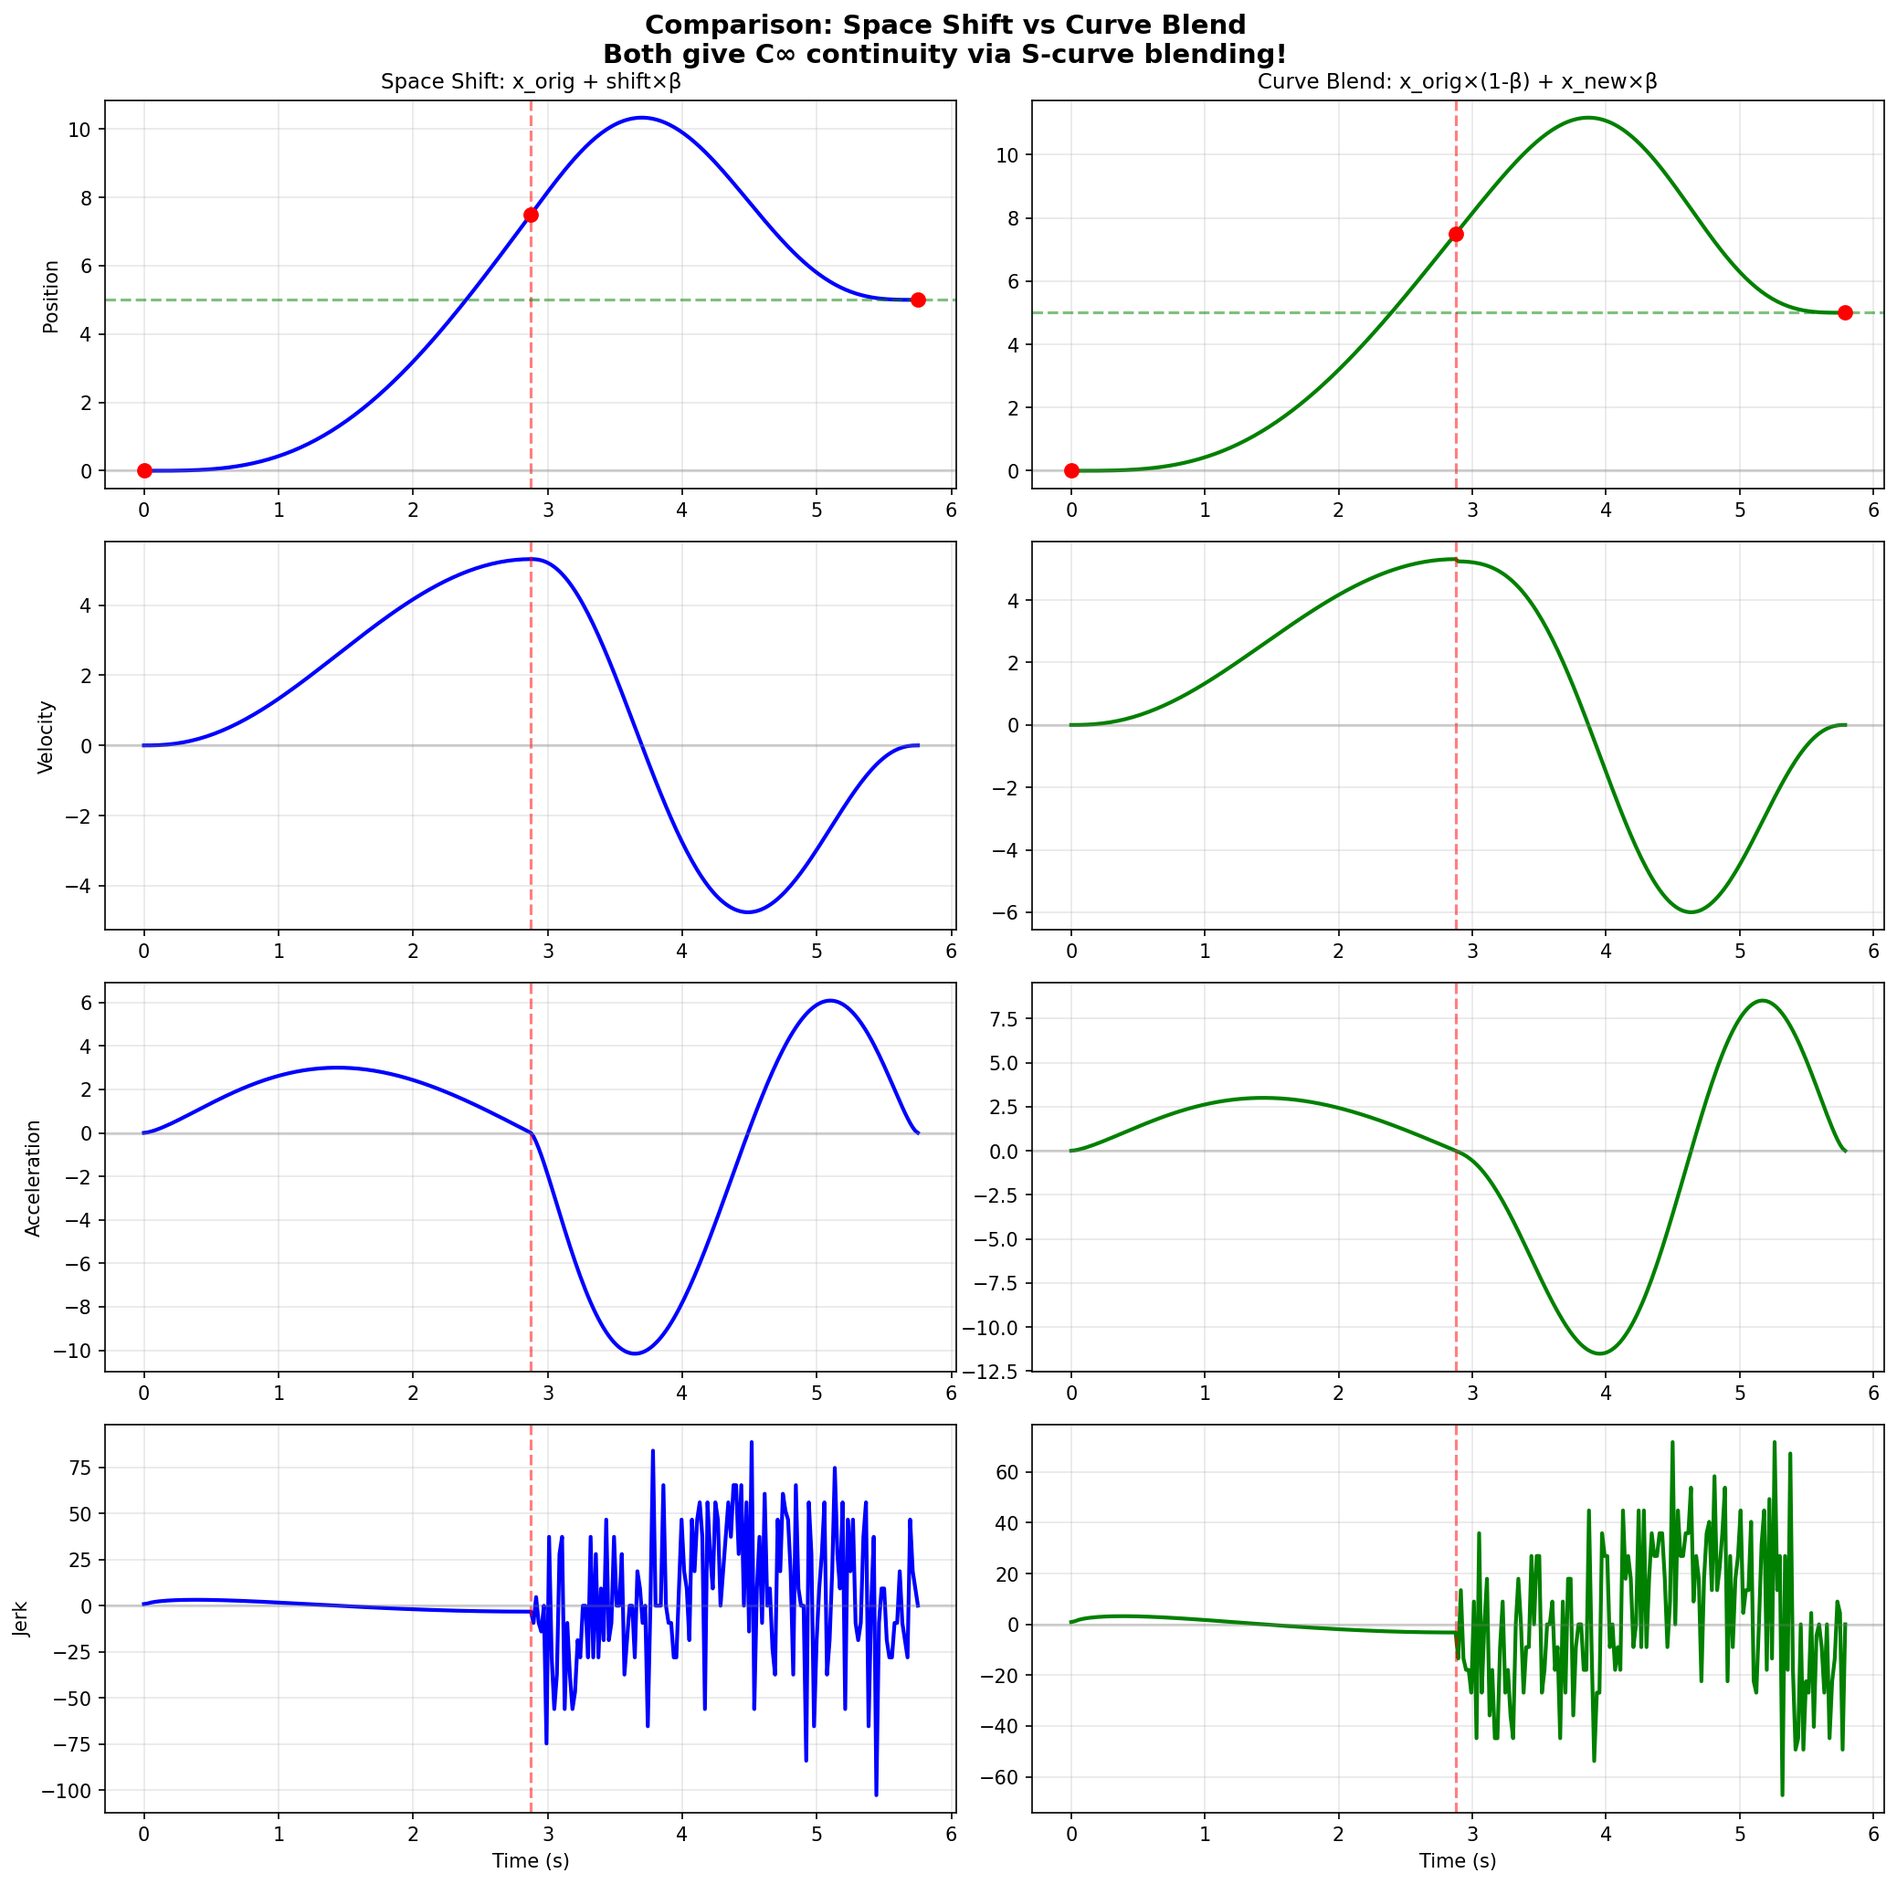
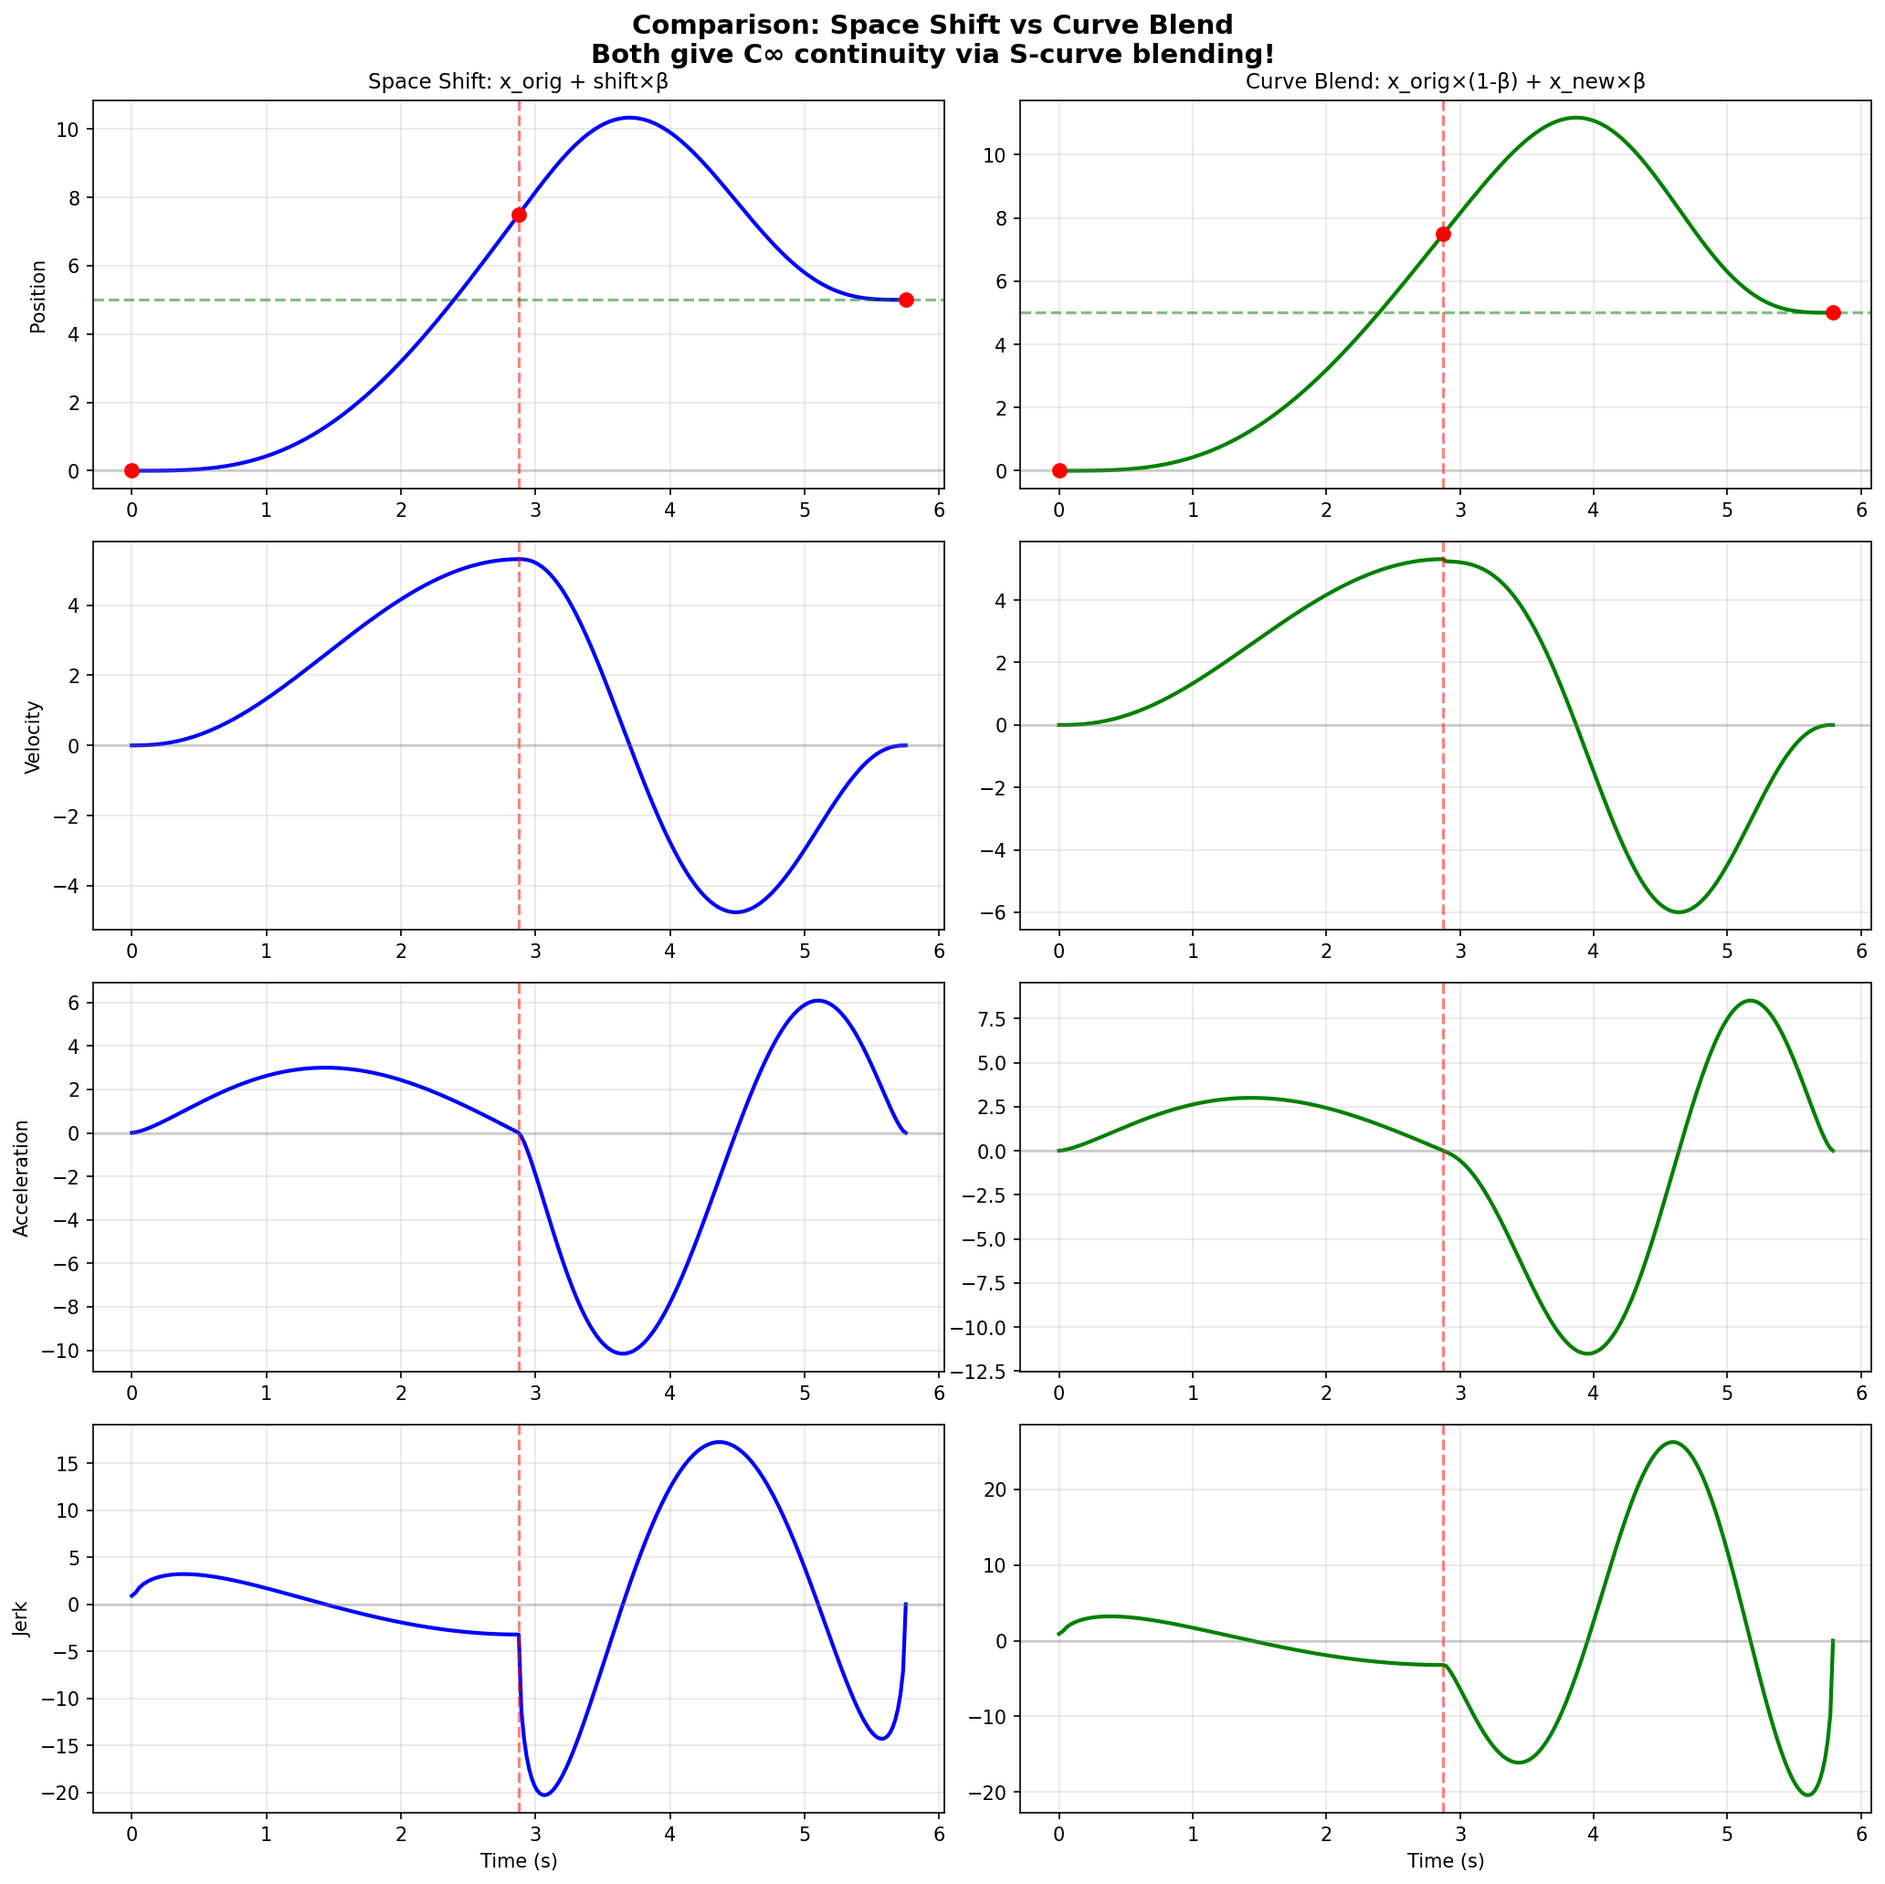
Simplify to Curve Blend only with improved higher derivative handling
- Update plot title to show correct Curve Blend formula:
  x(t) = x_inertial(t)×(1-β) + x_new(t)×β
- Scale boundary_margin with derivative order (0.05 + 0.01*order)
  to reduce numerical issues in higher derivatives near τ=±1
- Update BetaBlendMotion docstring to focus on Curve Blend approach
- Analytical derivatives via Leibniz rule give perfect continuity

diff --git a/src/scurvebeta/generalized.py b/src/scurvebeta/generalized.py
@@ -1007,6 +1007,9 @@ def normalized_f_derivatives(tau, max_order=8):
 
     Higher derivatives are computed analytically.
 
+    IMPORTANT: All derivatives are EXACTLY 0 at τ=±1 (the endpoints).
+    Near the boundaries, we use a smooth transition to avoid numerical issues.
+
     Returns: list [f, f', f'', f''', ...] of length max_order+1
     """
     tau = np.asarray(tau, dtype=float)
@@ -1021,15 +1024,26 @@ def normalized_f_derivatives(tau, max_order=8):
     # f(τ) - position (from normalized_f)
     results[0] = normalized_f(tau)
 
-    # Mask for valid τ range
-    mask = np.abs(tau) < 1
+    # Mask for interior region (away from boundaries)
+    # Higher derivatives need larger margin from boundary to avoid numerical issues
+    # As τ→±1, terms like (1-τ²)^(-k) blow up even though the full expression → 0
+    # For order n derivative, we need ~(1-τ²)^((2.5-n)/2), which blows up when n > 2.5
+    # Higher orders need progressively more margin
+    boundary_margin = 0.05 + 0.01 * max_order  # Scale margin with derivative order
+    mask = np.abs(tau) < (1 - boundary_margin)
     t = tau[mask]
+
+    if len(t) == 0:
+        # All values are at or near boundaries - all derivatives are 0
+        if scalar:
+            return [float(r[0]) for r in results]
+        return results
 
     # Precompute powers of (1-τ²)
     one_minus_t2 = 1 - t**2
-    sqrt_term = np.sqrt(np.maximum(one_minus_t2, 0))  # (1-τ²)^0.5
+    sqrt_term = np.sqrt(np.maximum(one_minus_t2, 1e-15))  # (1-τ²)^0.5
 
-    # Avoid division by zero
+    # Safe version for divisions
     safe_one_minus = np.maximum(one_minus_t2, 1e-15)
 
     if np.any(mask):
@@ -1141,24 +1155,31 @@ def _beta_s_derivatives(s, max_order=8):
 
 class BetaBlendMotion:
     """
-    Motion using S-curve blending between original and new curves.
+    Smooth transition from current motion state to a new S-curve target.
 
-    TWO APPROACHES ARE SUPPORTED:
+    The elegant formula:
 
-    1. SPACE SHIFT (mode='shift'):
-       x(t) = x_orig(t) + [x_target - x_orig_end] * β(s)
+    x(t) = x_inertial(t) * (1-β(s)) + x_new(t) * β(s)
 
-       The original curve continues, and a "space shift" is added that grows via S-curve.
+    where:
+    - x_inertial(t) = Taylor series matching all initial derivatives (x₀, v₀, a₀, j₀, ...)
+    - x_new(t) = fresh S-curve from x₀ to x_target
+    - β(s) = S-curve blend parameter, s = t/T
+    - β has ALL derivatives = 0 at s=0 and s=1
 
-    2. CURVE BLEND (mode='blend'):
-       x(t) = x_orig(t) * (1-β(s)) + x_new(t) * β(s)
+    WHY THIS IS C∞ SMOOTH:
 
-       Blends between original curve and a new curve to the target.
+    At t=0: β=0, β'=0, β''=0, ...
+    → x(0) = x_inertial(0) = x₀  ✓
+    → v(0) = x_inertial'(0) = v₀  ✓
+    → a(0) = x_inertial''(0) = a₀  ✓
+    → All derivatives match exactly!
 
-    BOTH give C∞ continuity because β and ALL its derivatives are 0 at s=0 and s=1!
-
-    At t=0: β=0, β'=0, β''=0, ... → perfect match with original motion
-    At t=T: β=1, β'=0, β''=0, ... → perfect arrival at target with all derivatives = 0
+    At t=T: β=1, β'=0, β''=0, ...
+    → x(T) = x_new(T) = x_target  ✓
+    → v(T) = x_new'(T) = 0  (S-curve ends at rest)  ✓
+    → a(T) = x_new''(T) = 0  ✓
+    → All derivatives = 0 at the end!
     """
 
     def __init__(self, x0, v0, a0, x_target, T, j0=0, snap0=0, crackle0=0, pop0=0,
@@ -1319,12 +1340,123 @@ class BetaBlendMotion:
 
         return result
 
+    def _get_orig_curve_derivatives(self, t, max_order=8):
+        """
+        Compute x_orig(t) and its derivatives ANALYTICALLY.
+
+        For mode='shift': Continue the original S-curve (rescaled to fit T)
+        For mode='blend': Use INERTIAL trajectory to ensure perfect continuity
+
+        The inertial trajectory x(t) = x0 + v0*t + a0*t²/2 + ... matches ALL
+        initial derivatives exactly, which is crucial for C∞ continuity when
+        β and all its derivatives are 0 at t=0.
+        """
+        t = np.asarray(t, dtype=float)
+        T = self.T
+
+        if self.mode == 'blend':
+            # For blend mode: use inertial trajectory to ensure perfect continuity
+            # x_inertial(t) = Σ (d^k x / dt^k)|₀ * t^k / k!
+            from math import factorial
+            init_derivs = [self.x0, self.v0, self.a0, self.j0, self.snap0,
+                          self.crackle0, self.pop0, self.lock0, self.drop0]
+
+            # Compute position and all derivatives of inertial trajectory
+            derivs = []
+            for order in range(max_order + 1):
+                # k-th derivative of x_inertial at time t
+                # x^(k)(t) = Σ_{n>=k} init_derivs[n] * t^(n-k) / (n-k)!
+                result = np.zeros_like(t)
+                for n in range(order, len(init_derivs)):
+                    if init_derivs[n] != 0:
+                        result += init_derivs[n] * np.power(t, n - order) / factorial(n - order)
+                derivs.append(result)
+
+            return derivs
+
+        elif self.original_plan is not None:
+            # For shift mode with original plan: continue original S-curve
+            plan = self.original_plan
+            tau_start = plan['tau_start']
+            tau_end = plan['tau_end']
+            tau_remaining = tau_end - self.tau_current
+
+            # τ(t) = tau_current + tau_remaining * (t/T)
+            tau = self.tau_current + tau_remaining * (t / T)
+            tau = np.clip(tau, min(tau_start, tau_end), max(tau_start, tau_end))
+
+            # dτ/dt = tau_remaining / T (constant)
+            tau_dot = tau_remaining / T if T > 0 else 0
+
+            # Scaling factor
+            f_start = normalized_f(tau_start)
+            delta_f = normalized_f(tau_end) - f_start
+            S = (plan['x1'] - plan['x0']) / delta_f if abs(delta_f) > 1e-10 else 0
+            offset = plan['x0'] - S * f_start
+
+            # Get f and all its derivatives at τ
+            f_derivs = normalized_f_derivatives(tau, max_order)
+
+            # x_orig^(k) = S * f^(k)(τ) * τ_dot^k
+            derivs = []
+            for k in range(max_order + 1):
+                derivs.append(S * f_derivs[k] * (tau_dot ** k) + (offset if k == 0 else 0))
+
+            return derivs
+        else:
+            # Fallback: use inertial trajectory
+            from math import factorial
+            init_derivs = [self.x0, self.v0, self.a0, self.j0, self.snap0,
+                          self.crackle0, self.pop0, self.lock0, self.drop0]
+
+            derivs = []
+            for order in range(max_order + 1):
+                result = np.zeros_like(t)
+                for n in range(order, len(init_derivs)):
+                    if init_derivs[n] != 0:
+                        result += init_derivs[n] * np.power(t, n - order) / factorial(n - order)
+                derivs.append(result)
+
+            return derivs
+
+    def _get_new_curve_derivatives(self, t, max_order=8):
+        """
+        Compute x_new(t) and its derivatives ANALYTICALLY.
+
+        x_new is a rest-to-rest S-curve from x0 to x_target.
+        τ(t) = -1 + 2*t/T, so dτ/dt = 2/T (constant)
+        """
+        t = np.asarray(t, dtype=float)
+        T = self.T
+
+        # τ(t) = -1 + 2*t/T
+        tau = -1 + 2 * (t / T)
+        tau = np.clip(tau, -1, 1)
+
+        tau_dot = 2 / T if T > 0 else 0
+
+        # For rest-to-rest: S = (x_target - x0) / 1.0 = x_target - x0
+        S = self.x_target - self.x0
+
+        # Get f and all its derivatives at τ
+        f_derivs = normalized_f_derivatives(tau, max_order)
+
+        # x_new^(k) = S * f^(k)(τ) * τ_dot^k + (x0 if k==0 else 0)
+        derivs = []
+        for k in range(max_order + 1):
+            derivs.append(S * f_derivs[k] * (tau_dot ** k) + (self.x0 if k == 0 else 0))
+
+        return derivs
+
     def _eval_derivative(self, t, order):
         """
-        Compute the k-th derivative of position at time t.
+        Compute the k-th derivative of position at time t ANALYTICALLY.
 
-        Mode 'shift': x(t) = x_orig(t) + [x_target - x_orig_end] * β(s)
-        Mode 'blend': x(t) = x_orig(t) * (1-β(s)) + x_new(t) * β(s)
+        x(t) = x_inertial(t) * (1-β(s)) + x_new(t) * β(s)
+             = x_inertial(t) + (x_new(t) - x_inertial(t)) * β(s)
+             = x_inertial(t) + Δx(t) * β(s)
+
+        Uses the generalized Leibniz rule for derivatives of products.
         """
         t = np.asarray(t, dtype=float)
         scalar = t.ndim == 0
@@ -1334,37 +1466,57 @@ class BetaBlendMotion:
         T = self.T
         s = t / T
 
-        if order == 0:
-            x_orig = self._original_motion_position(t)
-            beta = _beta_s(s)
+        # Get β(s) and all its derivatives w.r.t. s
+        beta_derivs_s = _beta_s_derivatives(s, max_order=order)
 
-            if self.mode == 'shift':
-                # Space shift approach
-                shift = self.x_target - self.x_orig_end
-                result = x_orig + shift * beta
-            else:
-                # Curve blend approach
-                x_new = self._new_curve_position(t)
-                result = x_orig * (1 - beta) + x_new * beta
+        # Convert to derivatives w.r.t. t: β^(k)_t = β^(k)_s / T^k
+        beta_derivs = [bd / (T ** k) if T > 0 else (bd if k == 0 else np.zeros_like(t))
+                       for k, bd in enumerate(beta_derivs_s)]
 
-        else:
-            # Derivatives via numerical differentiation
-            eps = 1e-6 * T
-            t_plus = np.clip(t + eps, 0, T)
-            t_minus = np.clip(t - eps, 0, T)
-            dt = t_plus - t_minus
-            dt = np.maximum(dt, 1e-12)
+        # Get inertial trajectory derivatives (matches initial state perfectly)
+        inertial_derivs = self._get_inertial_derivatives(t, order)
 
-            if order == 1:
-                pos_plus = self._eval_derivative(t_plus, 0)
-                pos_minus = self._eval_derivative(t_minus, 0)
-                result = (pos_plus - pos_minus) / dt
-            else:
-                deriv_plus = self._eval_derivative(t_plus, order - 1)
-                deriv_minus = self._eval_derivative(t_minus, order - 1)
-                result = (deriv_plus - deriv_minus) / dt
+        # Get new S-curve derivatives
+        new_derivs = self._get_new_curve_derivatives(t, order)
+
+        # Δx^(k) = x_new^(k) - x_inertial^(k)
+        delta_derivs = [new_derivs[k] - inertial_derivs[k] for k in range(order + 1)]
+
+        # Use Leibniz rule: (Δx * β)^(n) = Σ C(n,k) * Δx^(k) * β^(n-k)
+        from math import comb
+        product_deriv = np.zeros_like(t)
+        for k in range(order + 1):
+            product_deriv += comb(order, k) * delta_derivs[k] * beta_derivs[order - k]
+
+        # x^(n) = x_inertial^(n) + (Δx * β)^(n)
+        result = inertial_derivs[order] + product_deriv
 
         return float(result[0]) if scalar else result
+
+    def _get_inertial_derivatives(self, t, max_order=8):
+        """
+        Compute inertial trajectory and all its derivatives.
+
+        x_inertial(t) = x₀ + v₀t + a₀t²/2 + j₀t³/6 + ...
+
+        The k-th derivative at time t is:
+        x^(k)(t) = Σ_{n≥k} init_derivs[n] * t^(n-k) / (n-k)!
+        """
+        t = np.asarray(t, dtype=float)
+        from math import factorial
+
+        init_derivs = [self.x0, self.v0, self.a0, self.j0, self.snap0,
+                      self.crackle0, self.pop0, self.lock0, self.drop0]
+
+        derivs = []
+        for order in range(max_order + 1):
+            result = np.zeros_like(t)
+            for n in range(order, len(init_derivs)):
+                if init_derivs[n] != 0:
+                    result += init_derivs[n] * np.power(t, n - order) / factorial(n - order)
+            derivs.append(result)
+
+        return derivs
 
     def position(self, t):
         """Get position at time t."""

diff --git a/generate_plots.py b/generate_plots.py
@@ -1014,8 +1014,8 @@ def plot_mid_motion_redirect():
                     textcoords="offset points", xytext=(-100, 20), fontsize=10,
                     color='green', fontweight='bold')
 
-    plt.suptitle('Mid-Motion Redirect: S-curve Spatial Transformation\n'
-                 'x(t) = x_orig(t) + [x_new - x_orig_end] × β(s)',
+    plt.suptitle('Mid-Motion Redirect: S-curve Curve Blend\n'
+                 'x(t) = x_inertial(t)×(1-β) + x_new(t)×β',
                  fontsize=14, fontweight='bold')
     plt.tight_layout()
     plt.savefig('/home/user/s-curve-beta/img/mid_motion_redirect.png', dpi=150, bbox_inches='tight')
